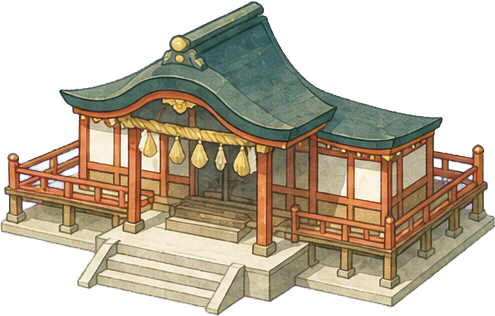
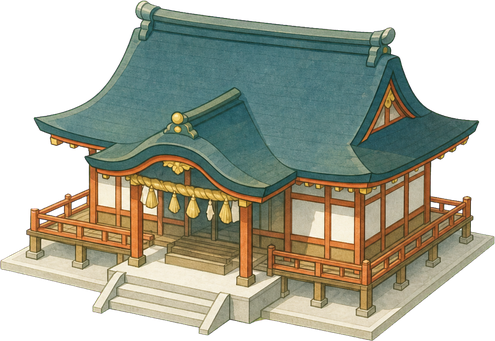
拝殿の絵を差し替え、屋根の欠けを修正
前回の切り出しで拝殿の屋根上部が欠けていたため撮り直し。
高さに合わせて配置サイズも調整。

diff --git a/src/game.js b/src/game.js
@@ -841,7 +841,7 @@ const SHRINE_PART_LAYOUT=[
   {src:'assets/shrine-parts/01-torii.png',  left:11.72,top:64.45,width:18.23,height:32.03},
   {src:'assets/shrine-parts/02-chozuya.png',left:46.88,top:66.41,width:14.32,height:23.44},
   {src:'assets/shrine-parts/03-do.png',     left:16.93,top:39.06,width:19.53,height:22.66},
-  {src:'assets/shrine-parts/04-haiden.png', left:45.57,top:38.09,width:24.74,height:23.63},
+  {src:'assets/shrine-parts/04-haiden.png', left:45.57,top:38.09,width:24.74,height:25.59},
   {src:'assets/shrine-parts/05-honden.png', left:63.80,top:14.65,width:23.44,height:32.52}
 ];
 /* その建物だけの色づき具合（%）。終えた段階は100、まだ来ていない段階は0、

diff --git a/index.html b/index.html
@@ -840,7 +840,7 @@ const yen=n=>n.toLocaleString();
 <script src="src/ui/map.js?v=20260731-2"></script>
 <script src="src/audio.js?v=20260731-3"></script>
 <script src="src/tutorial.js?v=20260731-3"></script>
-<script src="src/game.js?v=20260801-2"></script>
+<script src="src/game.js?v=20260801-3"></script>
 <script src="src/scene3d.js?v=20260731-2"></script>
 <script>
 (() => {
